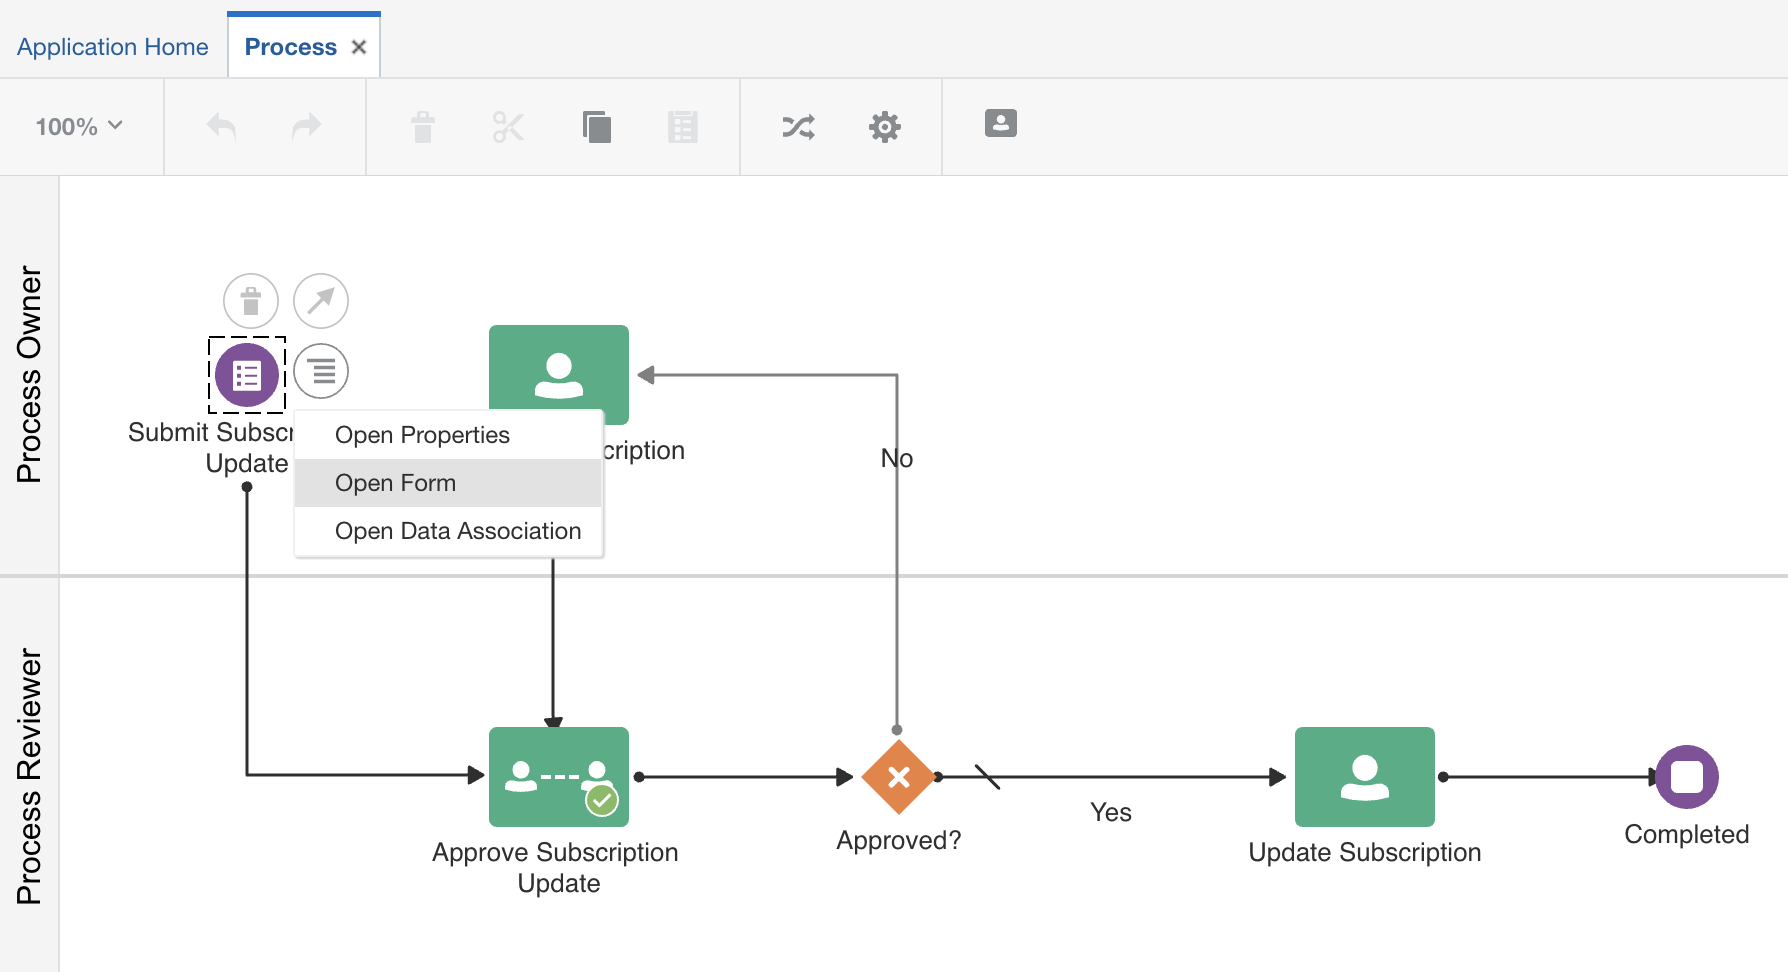
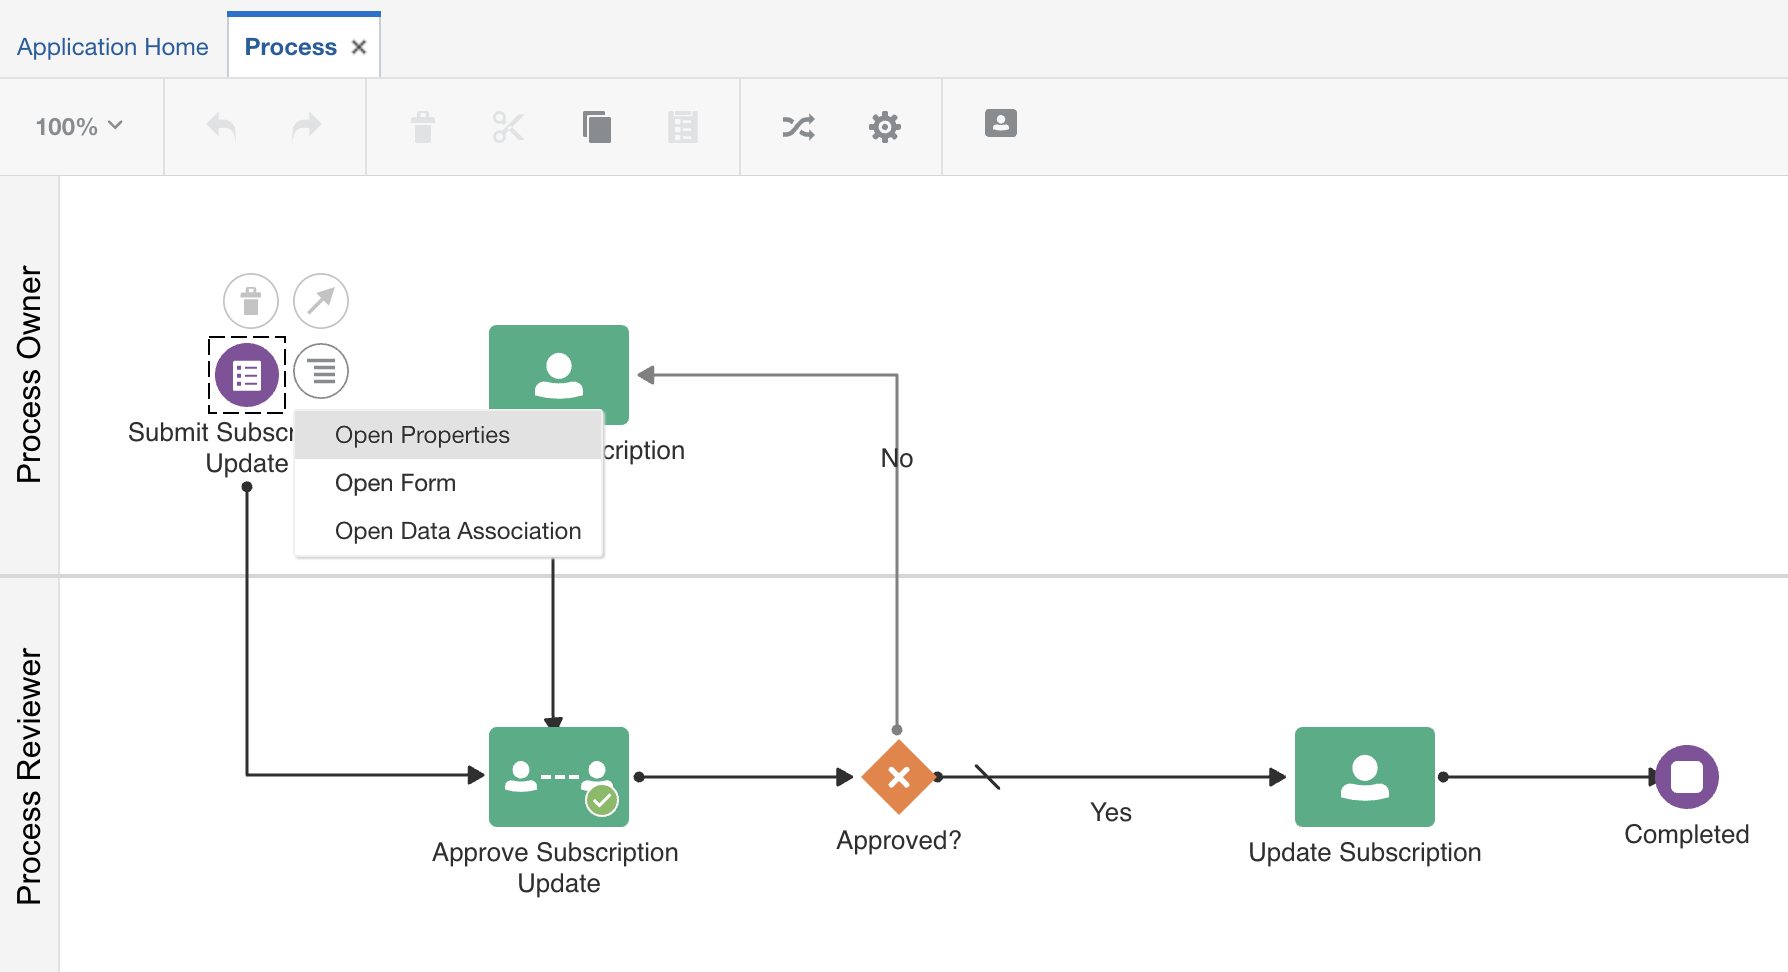
Incorporating Sarah's feedback. Thank you so much Sarah

Changed region(s): [[0.1538, 0.4012, 0.3384, 0.5247]]

diff --git a/html/process.html b/html/process.html
@@ -51,7 +51,7 @@
                         <section>
                             <h2>Before You Begin</h2>                           
                             <ul>	                            
-                            	<li>Enter your user number:&nbsp;<input data-bind="value: user_number" type="text"/>&nbsp;<button>OK</button></br>
+                            	<li>Enter your user number:&nbsp;<input data-bind="value: user_number" type="text"/>&nbsp;<button>OK</button><br>
                             		We'll use this user number to customize the integration names in this tutorial. If you leave this blank, these names will contain a placeholder that you can replace with your user number.
                             	</li>
                             	<li>Some steps in this tutorial have a <img src="img/copy-to-clipboard.png" alt="Copy to Cliboard" height="19px" width="19px"> icon next to them. Click this icon to copy the name of snippet to your clipboard and then paste it in Oracle Integration.</li>														
@@ -93,7 +93,7 @@
                             <ol>
 	                            <li>From the <strong>Home</strong> page’s <strong>Navigation menu</strong>, select <strong>Processes</strong>, and then select <strong>Process Applications</strong>.</li>
 	                            <li>Click <strong>Create</strong>.</li>
-								<li>In the Start with a QuickStart box, click <strong>Browse</strong>.</li>
+								<li>Hover over the <strong>Start with a QuickStart</strong> box, and then click <strong>Browse</strong>.</li>
 								<li><p>Locate the <strong>Subscription Management QuickStart</strong>, and click its <strong>Create</strong> button.</p>
 								<img src="img/screenshots/process/quickstart-gallery.png" width="600px"/>
 								</li>
@@ -110,25 +110,32 @@
                             <h2 id="section_3" role="button" style="text-align: left;">Edit the Form</h2>
                             <p>You’ll add two controls to the form that each call the source system and return values for customers to choose from.</p>
                             <ol>
-								<li><p>On the <strong>Processes</strong> page, click the process to open it in the structured process editor.</p>
+								<li>On the <strong>Processes</strong> page, click the process to open it in the structured process editor.</li>
+								<li>Click the purple Start activity titled <strong>Submit Subscription Update</strong>.</li>
+								<li><p>Click <img src="img/menu.png" alt="Menu icon" style="height: 15px; width: 15px;"/> and select <strong>Open Properties</strong>.</p>
 									<img src="img/screenshots/process/process-canvas.png" width="600px"/>
 								</li>
-								<li>Click the purple Start activity titled <strong>Submit Subscription Update</strong>.</li>
-								<li>Click <img src="img/menu.png" alt="Menu icon" style="height: 15px; width: 15px;"/> and select <strong>Open Properties</strong>.</li>
-								<li><p>In the <strong>How to identify the task?</strong> section, in the <strong>Title</strong> field, enter <code class="allow-copy"><span>User <em data-bind="text:user_number"></em> Submit Subscription Update</span></code>.</p>
+								<li><p>In the <strong>How will the end user identify the process?</strong> section, in the <strong>Title</strong> field, enter <code class="allow-copy"><span>User <em data-bind="text:user_number"></em> Submit Subscription Update</span></code>.</p>
 									<p>Remember this name for later, when you run the process application.</p>
 								</li>
-								<li>Close the <strong>Properties</strong> pane and select the same activity again.</li>
+								<li><p>Close the <strong>Properties</strong> pane and select the same activity again.</p>
+									<img src="img/screenshots/process/close-properties.png" width="600px"/>
+								</li>
 								<li><p>Click <img src="img/menu.png" alt="Menu icon" style="height: 15px; width: 15px;"/> and select <strong>Open Form</strong>.</p>
-									<img src="img/screenshots/process/form-canvas.png" width="600px"/>
+									<p>The form editor appears. It contains a central canvas, a side pane for setting properties for selected controls, and a side palette pane with basic and advanced controls you can add to the form.</p>
 								</li>
 								<li><p>Add a <strong>Select</strong> control to select the subscription:</p>
 									<ol type="a">
-										<li>In the form editor, drag and drop a <strong>Select</strong> control from the <strong>Basic Palette</strong> to the top of the form.</li>
-										<li>Select the control you just added.</li>
-										<li>In the <strong>Properties</strong> pane, locate the <strong>General</strong> tab.<span style="color:#ff0078"> [Carol: I know this is forced, but it was this or In the Properties pane, in the General tab, in the Name field, enter... and that seemed too long...]</span></li>
-										<li>in the <strong>Name</strong> field, enter <code class="allow-copy"><span>SubscriptionPUID</span></code>.</li>										
+										<li><p>Drag and drop a <strong>Select</strong> control from the <strong>Basic Palette</strong> to the top of the form.</p></li>
+										<img src="img/screenshots/process/form-canvas-select-control.png" width="600px"/>										
+										<li><p>Select the control you just added.</p>
+											<p>Notice how the Properties pane changes: when you select a control, the properties panel displays its properties. When you click outside of a control, the properties panel displays the entire form’s properties.
+										</li>
+										<li>In the <strong>Properties</strong> pane, locate the <strong>General</strong> tab.</li>
+										<li>In the <strong>Name</strong> field, enter <code class="allow-copy"><span>SubscriptionPUID</span></code>.</li>										
 										<li>In the <strong>Label</strong> field, enter <code class="allow-copy"><span>Subscription</span></code>.</li>
+										<li><p>Click outside the new control.</p>
+											<p>Notice how the label is now Subscription and the select control is a dropdown field.</p>
 									</ol>
 								</li>
 								<li><p>Add a <strong>Select</strong> control to select the product:</p>
@@ -137,10 +144,13 @@
 										<li>Select the control you just added.</li>
 										<li>In the <strong>Properties</strong> pane, locate the <strong>General</strong> tab.</li>
 										<li>in the <strong>Name</strong> field, enter <code class="allow-copy"><span>ProductPUID</span></code>.</li>										
-										<li>In the <strong>Label</strong> field, enter <code class="allow-copy"><span>Product</span></code>.</li>
+										<li><p>In the <strong>Label</strong> field, enter <code class="allow-copy"><span>Product</span></code>.</p>
+										<img src="img/screenshots/process/form-canvas.png" width="600px"/>											
+										</li>
 									</ol>
+
 								</li>
-								<li>Click the <img src="img/menu.png" alt="Preview icon" style="height: 15px; width: 15px;"/> <strong>Preview</strong> button to see the new fields in your form.</li>
+								<li>Click the <img src="img/preview.png" alt="Preview icon" style="height: 15px; width: 15px;"/> <strong>Preview</strong> button to see the new fields in your form.</li>
 								<li>Click <img src="img/close.png" alt="Close icon" style="height: 12px; width: 12px;"/> to close the preview.</li>
                             </ol>                         
                         </section>
@@ -178,7 +188,7 @@
 								<li><p>In the <strong>Value Binding</strong> field, enter <code>subscription</code> and then select <strong>subscriptionNumber</strong>.</p>
 									<img src="img/screenshots/process/label-binding.png" width="250px"/>
 								</li>
-								<li>Click <img src="img/menu.png" alt="Preview icon" style="height: 15px; width: 15px;"/> Preview.</li>
+								<li>Click <img src="img/preview.png" alt="Preview icon" style="height: 15px; width: 15px;"/> Preview.</li>
 								<li>Click the <strong>Subscription</strong> list, and notice subscription options returned from the integration appear.</li>
 								<li>Click <img src="img/close.png" alt="Close icon" style="height: 12px; width: 12px;"/> to close the preview.</li>
 	
@@ -191,7 +201,7 @@
 								<li>From the <strong>Resource</strong> list, select <strong>resources</strong>.</li>
 								<li>From the <strong>Operation</strong> list, select <strong>getResource</strong>.</li>
 								<li>In the <strong>Template Parameters</strong> section, from the <strong>SubscriptionPUID</strong> field, select <strong>Control value</strong>.</li>
-								<li>From the field next to <strong>SubscriptionPUID</strong>, select <strong>SubscriptionPUID</strong>.</br><span style="color:#ff0078">[Carol: Nathan, I replaced Subscription by SubscriptionPUID as you requested, however I don't see this in the click-through. Please confirm this is right.]</span></li>
+								<li>From the field next to <strong>SubscriptionPUID</strong>, select <strong>SubscriptionPUID</strong>.</li>
 								<li>In the <strong>Response</strong> section, in the <strong>Options List</strong> field, enter <code class="allow-copy"><span>response.items</span></code>.</li>
 								<li>In the <strong>Label Binding</strong> field, enter <code>product</code> and then select <strong>productName</strong>.</li>	
 								<li>In the <strong>Value Binding</strong> field, enter <code>subscription</code> and then select <strong>subscriptionProductPuid</strong>.</li>
@@ -202,37 +212,37 @@
 								<li>Click <img src="img/close.png" alt="Close icon" style="height: 12px; width: 12px;"/> to close the preview.</li>
 								<li>On the form canvas, select the <strong>Product</strong> control.</li> 
 								<li>In the <strong>Properties</strong> pane, in the <strong>Default Value</strong> section, select <strong>Skip Upon Load</strong>.</li>
-								<li>Scroll up until you find the section before the <strong>Options Source</strong> section, and then select the <strong>Hide</strong>.</li>
-								<li>On the <strong>Form</strong> canvas, select the <strong>Product</strong> control.</li>
-								<li>In the Properties pane, scroll down until you find the <strong>Events</strong> section.</li>
-								<li>Click <img src="img/menu.png" alt="Add icon" style="height: 12px; width: 12px;"/></li>
+								<li>Scroll up until you find the section before the <strong>Options Source</strong> section, and then select <strong>Hide</strong>.</p>
+									<p>Notice that the <strong>Product</strong> control is disabled to show it's hidden.</p>
+								</li>		
+								<li>On the <strong>Form</strong> canvas, select the <strong>Subscription</strong> control.</li>						
+								<li><p>In the Properties pane, scroll down until you find the <strong>Events</strong> section.</li>
+								<li><p>Click <img src="img/add.png" alt="Add icon" style="height: 12px; width: 12px;"/>.</p>
+									<p>The <strong>On Change</strong> dialog appears.</p>
+									<img src="img/screenshots/process/action-editor.png" width="650px"/>
+								</li>
 								<li><p>From the list next to the <strong>Event Name</strong> field, select <strong>On Change</strong>.</p>
 									<img src="img/screenshots/process/on-change.png" width="250px"/>
 								</li>
 								<li>Click <img src="img/edit.png" alt="Edit icon" style="height: 15px; width: 15px;"/> to display the <strong>Expression Editor</strong> dialog.</li>
-								<li><p>Add an action to load the <strong>Product</strong> list values when the user selects a subscription:</p>
-									<p><span style="color:#ff0078">[Carol: Sarah, I changed this because the name that you see in the first field is automatically created based on what you select from the Control Name and Action lists. If you try to click the first field to enter the name, the complete section collapses which can be extremely confusing (I know this fist hand haha). Let me know if you want me to show you this.]</span></p>
+								<li><p>Add an action to load the <strong>Product</strong> list values when the user selects a subscription:</p>									
 									<ol type="a">
 										<li>Click <strong>+ Action</strong>.</li>
-										<li><p>From the <strong>Control Name</strong> list, select <strong>ProductPUID</strong>.</p>
-											<p><span style="color:#ff0078">[Carol: Nathan, I replaced Product by ProductPUID as you requested, however I don't see this in the click-through. Please confirm this is right.]</span></p>
-										</li>										
+										<li>From the <strong>Control Name</strong> list, select <strong>ProductPUID</strong>.</li>										
 										<li>From the <strong>Action</strong> list, select <strong>Refresh Connector</strong>.</li>																				
 									</ol>
 								</li>
 								<li><p>Add an action to show the values for the <strong>Product</strong> list values when the user selects a subscription:</p>
 								<ol type="a">
 										<li>Click <strong>+ Action</strong>.</li>
-										<li><p>From the <strong>Control Name</strong> list, select <strong>ProductPUID</strong>.</p>
-										<p><span style="color:#ff0078">[Carol: Nathan, I replaced Product by ProductPUID as you requested, however I don't see this in the click-through. Please confirm this is right.]</span></p>
-										</li>										
+										<li>From the <strong>Control Name</strong> list, select <strong>ProductPUID</strong>.</li>										
 										<li>From the <strong>Action</strong> list, select <strong>Show</strong>.</li>																				
 									</ol>
 								</li>
-								<li>Click <strong>OK</strong></li>
+								<li>Click <strong>OK</strong>.</li>
 								<li><p>Let's preview the behavior you just added to the form controls:</p>
-								<ol>
-									<li>On the <strong>Form</strong> canvas, click <img src="img/menu.png" alt="Preview icon" style="height: 15px; width: 15px;"/> Preview.</li>
+								<ol type="a">
+									<li>On the <strong>Form</strong> canvas, click <img src="img/preview.png" alt="Preview icon" style="height: 15px; width: 15px;"/> Preview.</li>
 									<li><p>On the <strong>Preview</strong> page, from the <strong>Subscription</strong> list, select <strong>Computer Service and Rentals -26009</strong>.</p> 
 										<p>Notice how the <stong>Product</stong> list displays its recently loaded values after the Subscription field changes.</p></li>
 									<li>From the <strong>Product</strong> list, select <strong>GE Top Control Dishwasher</strong>.</li>
@@ -253,17 +263,14 @@
 									<!--li>In the <strong>Properties</strong> pane, scroll down and select the <strong>Hide Labels</strong> and <strong>Hide Row Checkbox</strong> options.</li-->
 									<li><p>Configure the connector:</p>
 										<ol type="a">
-											<li>Select <strong>Use Data from Connector</strong>.</li>
+											<li>In the <strong>Properties</strong> pane, select <strong>Use Data from Connector</strong>.</li>
 											<li>From the <strong>Connector</strong> list, select <strong>GetSubscriptionProductBillLinesByProduct</strong>.</li>
 											<li>From the <strong>Resource</strong>, select <strong>resources</strong>.</li>
 											<li>From the <strong>Operation</strong> list, select <strong>getResource</strong>.</li>
 											<li>In the <strong>Template Parameters</strong> section, from the <strong>SubscriptionPUID</strong> field, select <strong>Control value</strong>.</li>
-											<li>From the field next to <strong>SubscriptionPUID</strong>, select <strong>ProductPUID</strong>.
-											</br><span style="color:#ff0078">[Carol: Nathan, I replaced Subscription by ProductPUID as you requested, however I don't see this in the click-through. Please confirm this is right.]</span></li>
-											
+											<li>From the field next to <strong>SubscriptionPUID</strong>, select <strong>ProductPUID</strong>.</li>											
 											<li>From the <strong>SubscriptionPUID</strong> field, select <strong>Control value</strong>.</li>
-											<li>From the field next to <strong>SubscriptionPUID</strong>, select <strong>SubscriptionPUID</strong>.
-											</br><span style="color:#ff0078">[Carol: Nathan, I replaced Subscription by SubscriptionPUID as you requested, however I don't see this in the click-through. Please confirm this is right.]</span></li>
+											<li>From the field next to <strong>SubscriptionPUID</strong>, select <strong>SubscriptionPUID</strong>.</li>
 											<li>In the <strong>Response</strong> section, in the <strong>Options List</strong> field, enter <code class="allow-copy"><span>response.items</span></code>.</li>
 											<li>Click the <strong>BillLinePuid</strong> field, and select <strong>billLinePuid</strong>.</li>
 											<li>In the <strong>InvoiceText</strong> field, enter <code>invoice</code> and then select <strong>invoiceText</strong>.</li>
@@ -276,28 +283,26 @@
 																											
 									<li>On the <strong>Form</strong> canvas, select the <strong>Product</strong> control.</li>
 									<li>In the Properties pane, scroll down until you find the <strong>Events</strong> section.</li>
-									<li>Click <img src="img/menu.png" alt="Add icon" style="height: 12px; width: 12px;"/></li>
+									<li>Click <img src="img/add.png" alt="Add icon" style="height: 12px; width: 12px;"/>.</li>
 									<li>From the list next to the <strong>Event Name</strong> field, select <strong>On Change</strong></li>
-									<li><p>Click <img src="img/edit.png" alt="Edit icon" style="height: 15px; width: 15px;"/> to display the <strong>Expression Editor</strong> dialog.</p>
-										<img src="img/screenshots/process/action-editor.png" width="650px"/>
-									</li>										
+									<li>Click <img src="img/edit.png" alt="Edit icon" style="height: 15px; width: 15px;"/> to display the <strong>Expression Editor</strong> dialog.</li>										
 									<li><p>Add an action that refreshes the table when the selected subscription and product value change:</p>
-										<p><span style="color:#ff0078">[Carol: Sarah, I changed this because the name that you see in the first field is automatically created based on what you select from the Control Name and Action lists. If you try to click the first field to enter the name, the complete section collapses which can be extremely confusing (I know this fist hand haha). Let me know if you want me to show you this.]</span></p>
 										<ol type="a">
 											<li>Click <strong>+ Action</strong>.</li>
 											<li>From the <strong>Control Name</strong> list, select <strong>BillLines</strong>.</li>
-											<li>From the <strong>Which?</strong> list, select <strong>Self</strong>.</li>														
+											<li>Leave the default selection (<strong>Self</strong>) for the <strong>Which?</strong> field as is.</li>														
 											<li>From the <strong>Action</strong> list, select <strong>Refresh Connector</strong>.</li>																				
 										</ol>
 									</li>
 									<li><p>Add an action that shows the table when the selected subscription and product value change:</p>
 										<ol type="a">
 											<li>Click <strong>+ Action</strong>.</li>
-											<li>From the <strong>Control Name</strong> list, select <strong>BillLines</strong>.</li>										
+											<li>From the <strong>Control Name</strong> list, select <strong>BillLines</strong>.</li>
+											<li>Leave the default selection (<strong>Self</strong>) for the <strong>Which?</strong> field as is.</li>											
 											<li>From the <strong>Action</strong> list, select <strong>Show</strong>.</li>																				
 										</ol>
 									</li>
-									<li>Click <strong>OK</strong></li>
+									<li>Click <strong>OK</strong>.</li>
 									<li><p>Let's preview the behavior you just added to the table control:</p>
 										<ol>
 											<li>On the <strong>Form</strong> canvas, click <img src="img/menu.png" alt="Preview icon" style="height: 15px; width: 15px;"/> Preview.</li>
